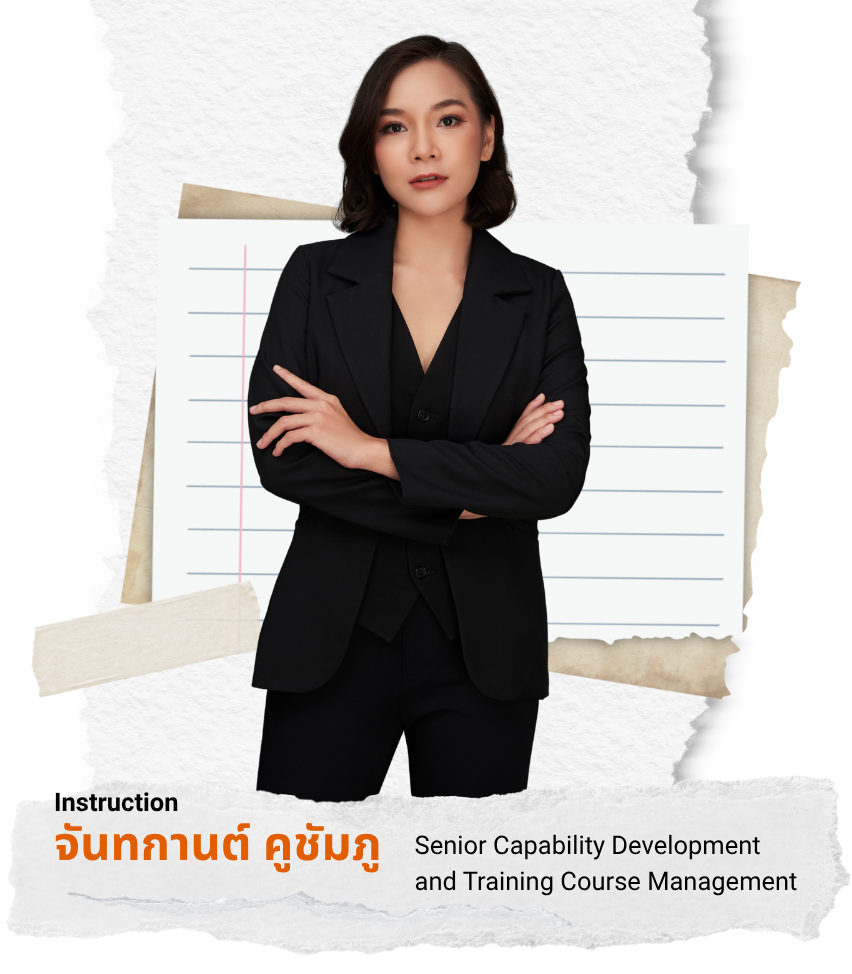
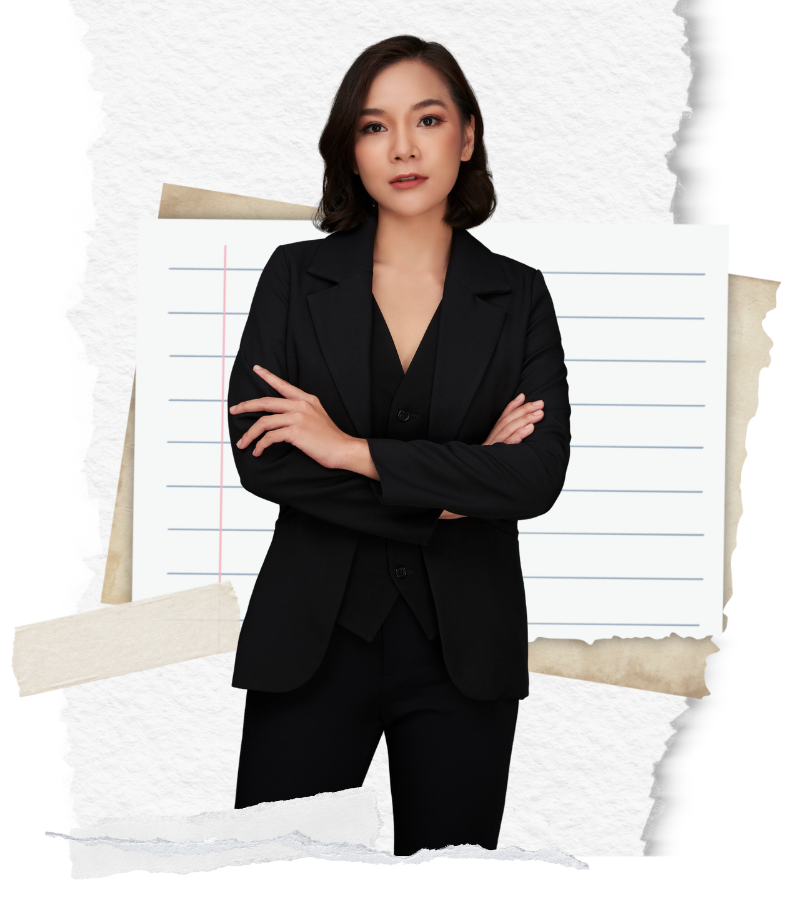
style: enlarge promo box/badges, add instructor card overlay on portrait

diff --git a/src/components/Hero.tsx b/src/components/Hero.tsx
@@ -83,34 +83,50 @@ export default function Hero() {
               </button>
             </div>
 
-            {/* Highlights Note */}
-            <div className="bg-[#fefdf5] sketch-border p-4 rounded-xl max-w-md w-full rotate-[-0.5deg] sketch-shadow-sm text-left relative">
-              <div className="absolute -top-3 right-4 text-2xl select-none">📌</div>
-              <div className="font-bold text-sm text-[#1f7a3a] mb-1">🎁 โปรโมชันพิเศษเฉพาะรุ่นนี้:</div>
-              <div className="text-xs sm:text-sm text-[#412d17] font-medium leading-relaxed">
-                สมัครอบรม 1 ท่าน <strong>รับสิทธิ์เข้าเรียนฟรีอีก 1 ท่านทันที!</strong> (ตกท่านละ 1,750 บาท เท่านั้น)
+            {/* Enlarged Highlights Note / Special Promotion Box */}
+            <div className="bg-[#fefdf5] sketch-border-thick p-6 rounded-2xl max-w-lg w-full rotate-[-1deg] sketch-shadow-lg text-left relative">
+              <div className="absolute -top-5 right-6 text-3xl select-none animate-bounce">📌</div>
+              <div className="font-black text-base sm:text-lg text-[#1f7a3a] mb-2 flex items-center gap-2">
+                <span>🎁</span> โปรโมชันพิเศษเฉพาะรุ่นนี้:
+              </div>
+              <div className="text-sm sm:text-base text-[#412d17] font-bold leading-relaxed">
+                สมัครอบรม 1 ท่าน <span className="bg-[#f6d41c] px-1.5 py-0.5 rounded-sm">รับสิทธิ์เข้าเรียนฟรีอีก 1 ท่านทันที!</span><br className="hidden sm:inline" /> 
+                (เฉลี่ยตกเพียงท่านละ <span className="text-[#d64545] font-black underline underline-offset-4 decoration-2">1,750 บาท</span> เท่านั้น)
               </div>
             </div>
 
           </div>
 
-          {/* Hero Right Content (Instructor Image) */}
-          <div className="lg:col-span-5 flex justify-center relative mt-6 lg:mt-0">
+          {/* Hero Right Content (Instructor Image & Overlay Badge) */}
+          <div className="lg:col-span-5 flex justify-center relative mt-8 lg:mt-0">
             {/* Playful Notebook Tape Accent */}
             <div className="absolute top-[-25px] left-[20%] w-[100px] h-[30px] bg-white/60 backdrop-blur-xs sketch-border border-dashed transform rotate-[-8deg] z-10 opacity-70 hidden sm:block" />
             <div className="absolute top-[-20px] right-[25%] w-[80px] h-[30px] bg-white/60 backdrop-blur-xs sketch-border border-dashed transform rotate-[12deg] z-10 opacity-70 hidden sm:block" />
 
             <div className="relative w-full max-w-[380px] sm:max-w-[420px] aspect-[4/5] flex items-end">
-              {/* Instructor Portrait - No border, frame, or name caption */}
-              <div className="w-full h-full relative overflow-visible flex items-end justify-center select-none pointer-events-none">
+              {/* Instructor Portrait */}
+              <div className="w-full h-full relative overflow-visible flex items-end justify-center select-none pointer-events-none z-10">
                 <Image
                   src="/Instructor02.png"
                   alt="อ.แพรว จันทกานต์ คูชัมภู"
                   fill
-                  sizes="(max-width: 768px) 100vw, 500px"
+                  sizes="(max-width: 768px) 100vw, 420px"
                   priority
                   className="object-contain object-bottom drop-shadow-[8px_8px_0px_rgba(65,45,23,0.15)]"
                 />
+              </div>
+
+              {/* Dynamic Styled Instructor Text Card Overlay */}
+              <div className="absolute bottom-2 left-1/2 transform -translate-x-1/2 w-[90%] bg-white sketch-border px-4 py-3.5 rounded-xl sketch-shadow text-center rotate-[-1.5deg] z-20">
+                {/* Simulated paper tape styling */}
+                <div className="absolute top-[-10px] left-1/2 transform -translate-x-1/2 w-[70px] h-[18px] bg-[#f6d41c] sketch-border border-dashed rotate-[-2deg]" />
+                
+                <div className="text-[10px] font-black text-[#ea580c] tracking-widest uppercase mb-1 mt-1">INSTRUCTOR</div>
+                <div className="text-base sm:text-lg font-black text-[#412d17]">อ.แพรว จันทกานต์ คูชัมภู</div>
+                <div className="text-[10px] font-bold text-slate-500 leading-tight mt-1">
+                  Senior Capability Development and Training Course Management<br />
+                  สถาบันเพิ่มผลผลิตแห่งชาติ (FTPI)
+                </div>
               </div>
             </div>
           </div>

diff --git a/src/components/Pricing.tsx b/src/components/Pricing.tsx
@@ -16,8 +16,8 @@ export default function Pricing() {
         
         {/* Section Heading */}
         <div className="text-center max-w-3xl mx-auto mb-12">
-          <span className="inline-block bg-[#ea580c] text-white text-xs sm:text-sm font-extrabold px-4 py-1.5 rounded-full sketch-border sketch-shadow-sm rotate-[1.5deg] mb-4">
-            ราคาคุ้มค่าเพื่อการเติบโตขององค์กร
+          <span className="inline-block bg-[#ea580c] text-white text-sm sm:text-base font-extrabold px-6 py-2 rounded-full sketch-border sketch-shadow-sm rotate-[1.5deg] mb-5">
+            ราคาคุ้มค่าเพื่อการเติบโตขององค์กร 💼
           </span>
           <h2 className="text-2xl sm:text-3xl md:text-4xl font-black text-[#412d17] leading-tight">
             ค่าธรรมเนียมในการสมัครอบรม
@@ -35,7 +35,7 @@ export default function Pricing() {
           <div className="flex flex-col items-center text-center space-y-6">
             
             {/* Offer Detail */}
-            <div className="bg-[#f6d41c] text-[#412d17] text-sm sm:text-base font-extrabold px-6 py-2 rounded-xl sketch-border sketch-shadow-sm rotate-[-1.5deg] tracking-wide inline-block">
+            <div className="bg-[#f6d41c] text-[#412d17] text-base sm:text-lg font-black px-8 py-3 rounded-2xl sketch-border sketch-shadow rotate-[-1.5deg] tracking-wide inline-block">
               🔥 ดีลพิเศษ: สมัคร 1 อบรมได้ 2 คน
             </div>
 

diff --git a/src/components/PainPoints.tsx b/src/components/PainPoints.tsx
@@ -54,8 +54,8 @@ export default function PainPoints() {
         
         {/* Pain Points Section */}
         <div className="text-center max-w-3xl mx-auto mb-16">
-          <div className="inline-block bg-[#d64545] text-white text-xs sm:text-sm font-extrabold px-4 py-1.5 rounded-full sketch-border sketch-shadow-sm rotate-[-1deg] mb-4">
-            เหนื่อยไหมกับกระบวนการแบบเดิม?
+          <div className="inline-block bg-[#d64545] text-white text-sm sm:text-base font-extrabold px-6 py-2 rounded-full sketch-border sketch-shadow-sm rotate-[-1deg] mb-5">
+            เหนื่อยไหมกับกระบวนการแบบเดิม? 🤔
           </div>
           <h2 className="text-2xl sm:text-3xl md:text-4xl font-black text-[#412d17] leading-tight">
             ปัญหายอดฮิตของคนทำงาน<br className="sm:hidden" /> ที่ต้องการทางออกด้วย AI

diff --git a/src/components/Instructor.tsx b/src/components/Instructor.tsx
@@ -20,6 +20,7 @@ export default function Instructor() {
               src="/name_instructor.png"
               alt="วิทยากรผู้บรรยาย"
               fill
+              sizes="(max-width: 768px) 100vw, 450px"
               className="object-contain"
               priority
             />

diff --git a/src/components/FAQ.tsx b/src/components/FAQ.tsx
@@ -50,6 +50,7 @@ export default function FAQ() {
               src="/FAQ.png"
               alt="คำถามที่พบบ่อย"
               fill
+              sizes="(max-width: 768px) 100vw, 450px"
               className="object-contain"
               priority
             />

diff --git a/src/components/CourseOutline.tsx b/src/components/CourseOutline.tsx
@@ -73,6 +73,7 @@ export default function CourseOutline() {
               src="/Learningjourney.png"
               alt="Learning Journey"
               fill
+              sizes="(max-width: 768px) 100vw, 450px"
               className="object-contain"
               priority
             />
